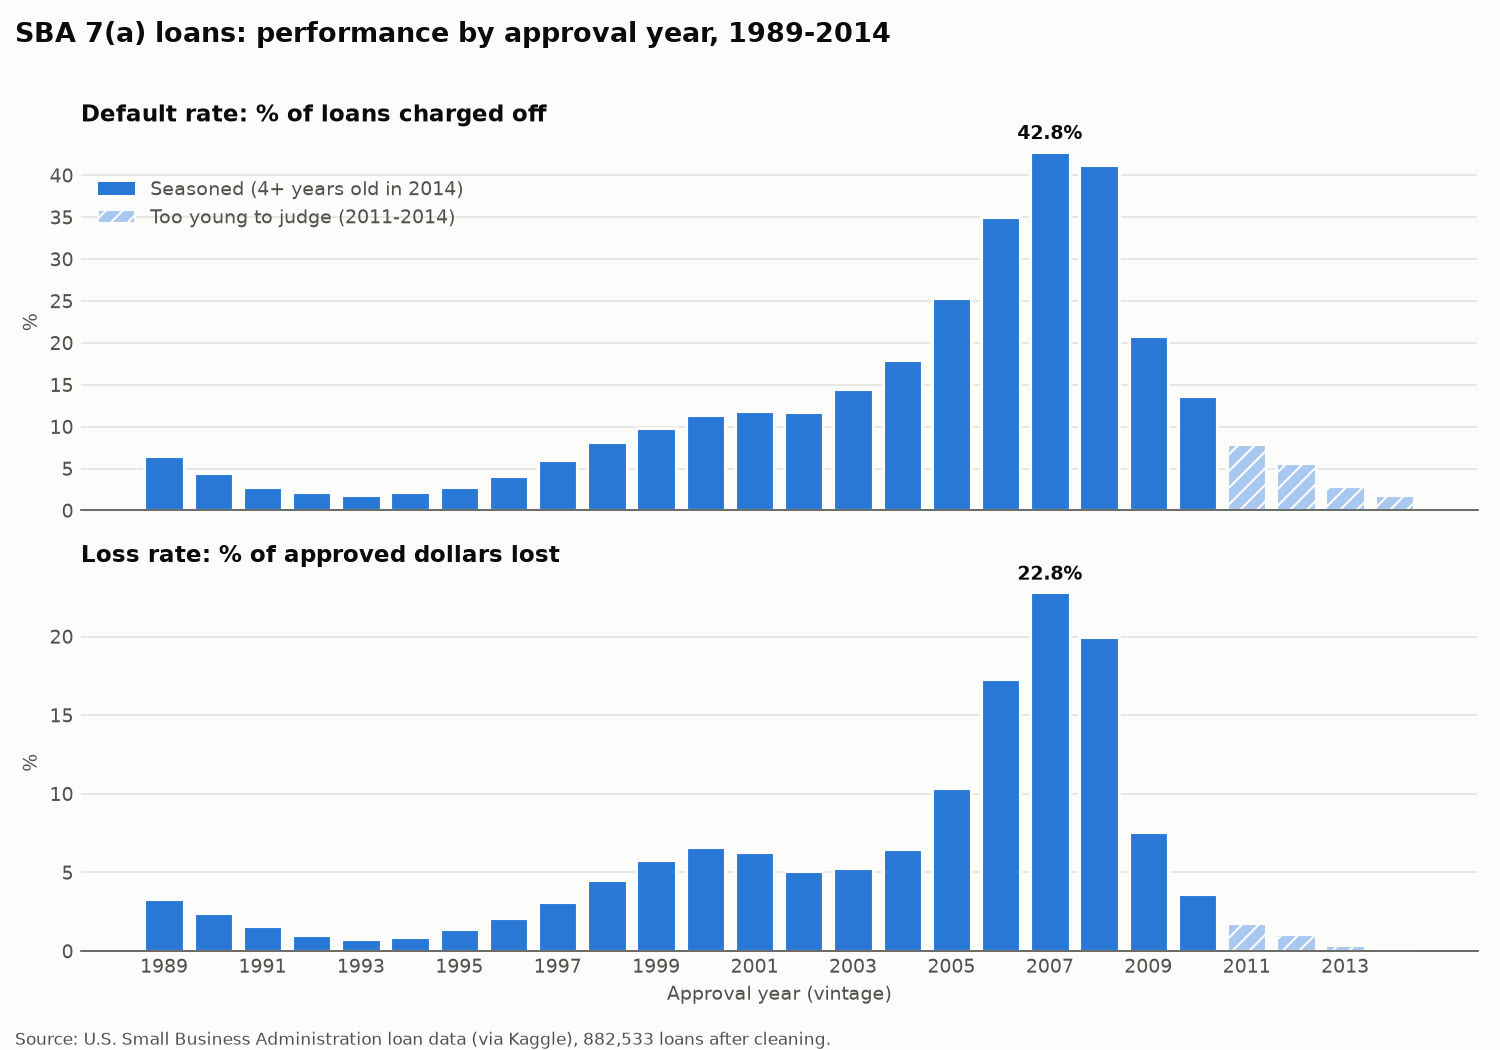
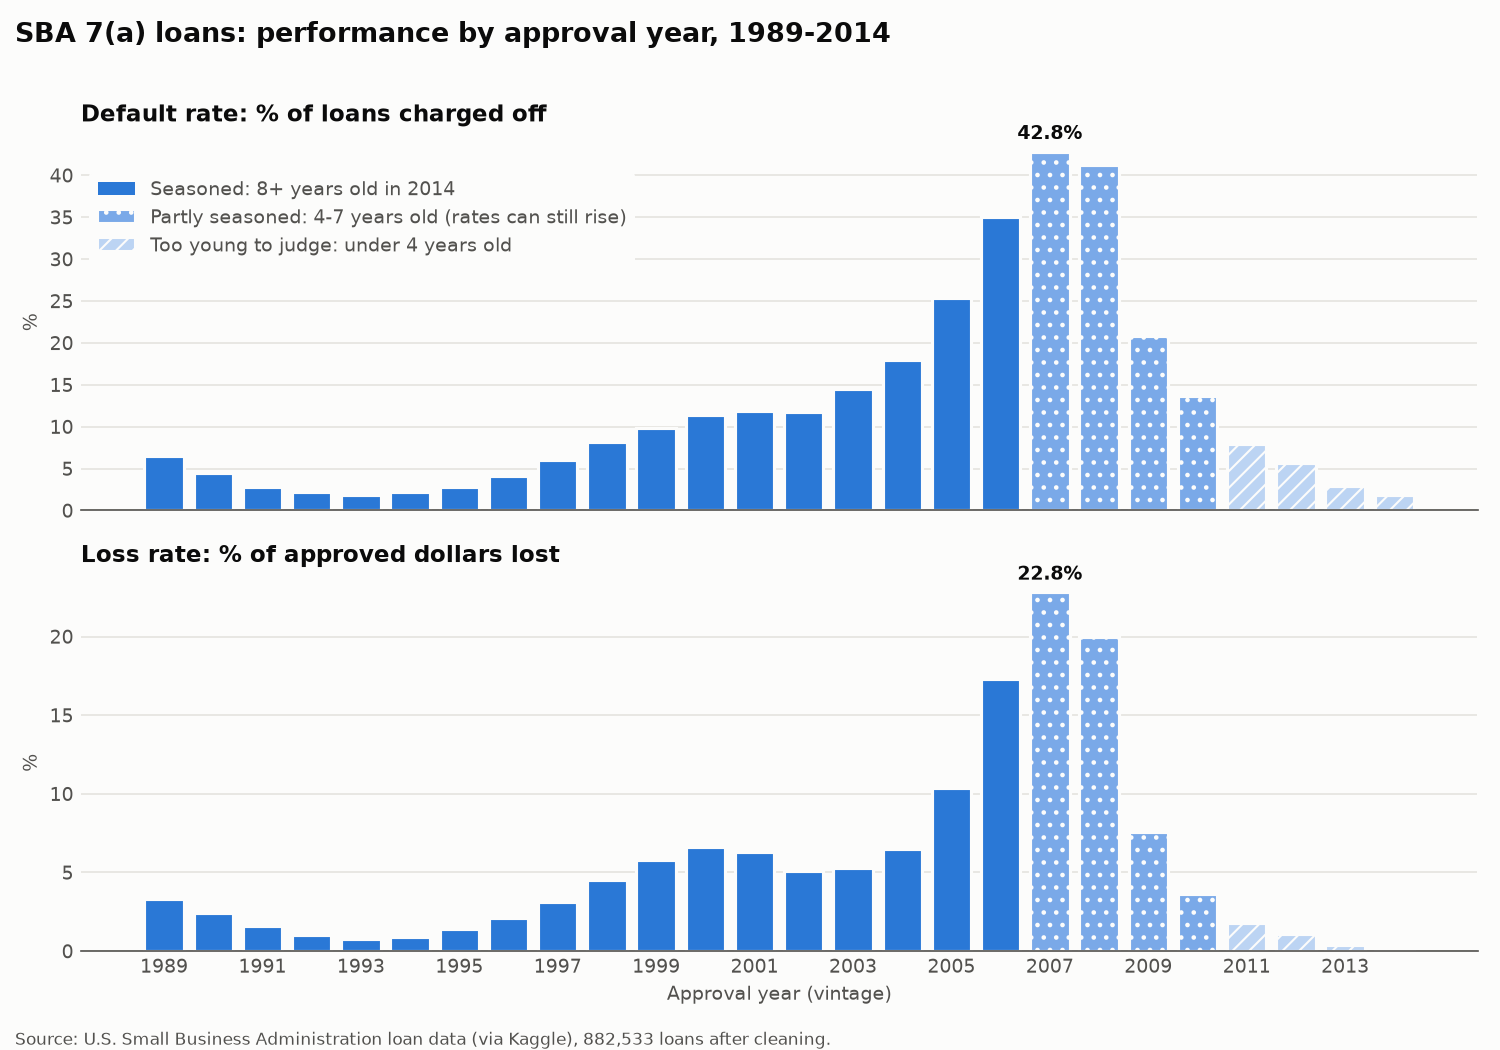
Step 3: vintage analysis

Changed region(s): [[0.6747, 0.1219, 0.828, 0.4876], [0.6747, 0.5486, 0.828, 0.9143], [0.0613, 0.1524, 0.4293, 0.2438]]

diff --git a/scripts/03_vintage_charts.py b/scripts/03_vintage_charts.py
@@ -28,13 +28,16 @@ DATABASE_FILE = PROJECT_FOLDER / "data" / "loans.duckdb"
 OUTPUT_FOLDER = PROJECT_FOLDER / "outputs"
 OUTPUT_FOLDER.mkdir(exist_ok=True)
 
-# The last vintage we treat as "seasoned" (old enough to judge). See Q1 of
-# sql/03_vintage_analysis.sql for why: most defaults happen in the first few years.
-LAST_SEASONED_YEAR = 2010
+# How old a vintage must be before we trust its numbers. See Q1 of
+# sql/03_vintage_analysis.sql: about 87% of defaults happen within 8 years,
+# but only about 1/3 within 4 years.
+LAST_SEASONED_YEAR = 2006          # 8+ years old in 2014
+LAST_PARTLY_SEASONED_YEAR = 2010   # 4-7 years old in 2014
 
 # Chart colours, kept in one place so every chart looks the same
-BLUE = "#2a78d6"           # main colour for the bars
-BLUE_LIGHT = "#a9c8ef"     # lighter blue for the "too young to judge" years
+BLUE = "#2a78d6"           # main colour for the bars (seasoned)
+BLUE_MID = "#7aa9e8"       # medium blue for "partly seasoned" years
+BLUE_LIGHT = "#bcd4f3"     # light blue for "too young to judge" years
 TEXT = "#0b0b0b"           # main text
 TEXT_SOFT = "#52514e"      # axis labels and notes
 GRID = "#e4e3df"           # faint grid lines
@@ -54,6 +57,7 @@ vintages = con.execute(
     SELECT
         approval_year                                               AS vintage,
         CASE WHEN approval_year <= {LAST_SEASONED_YEAR} THEN 'Seasoned'
+             WHEN approval_year <= {LAST_PARTLY_SEASONED_YEAR} THEN 'Partly seasoned'
              ELSE 'Too young to judge' END                          AS seasoning,
         COUNT(*)                                                    AS number_of_loans,
         ROUND(SUM(loan_amount) / 1e6, 0)                            AS approved_millions,
@@ -118,8 +122,15 @@ def label_highest_bar(ax, x_values, y_values, suffix):
 # 3. Chart 1: default rate and loss rate by vintage (two panels, one above
 #    the other, so each measure has its own scale)
 # ---------------------------------------------------------------------------
-bar_colours = [BLUE if s == "Seasoned" else BLUE_LIGHT for s in vintages["seasoning"]]
-bar_hatches = ["" if s == "Seasoned" else "///" for s in vintages["seasoning"]]
+# Each seasoning label gets its own colour and pattern (the pattern helps
+# readers who can't easily tell the blues apart, and when printed in grey)
+style_for = {
+    "Seasoned":           (BLUE, ""),
+    "Partly seasoned":    (BLUE_MID, ".."),
+    "Too young to judge": (BLUE_LIGHT, "///"),
+}
+bar_colours = [style_for[s][0] for s in vintages["seasoning"]]
+bar_hatches = [style_for[s][1] for s in vintages["seasoning"]]
 
 figure, (top, bottom) = plt.subplots(2, 1, figsize=(10, 7), sharex=True)
 figure.patch.set_facecolor(BACKGROUND)
@@ -141,12 +152,16 @@ bottom.set_xticks(vintages["vintage"][::2])        # label every second year
 bottom.set_xlabel("Approval year (vintage)", color=TEXT_SOFT, fontsize=9)
 
 legend_items = [
-    Patch(facecolor=BLUE, label="Seasoned (4+ years old in 2014)"),
+    Patch(facecolor=BLUE, label="Seasoned: 8+ years old in 2014"),
+    Patch(facecolor=BLUE_MID, hatch="..", edgecolor=BACKGROUND,
+          label="Partly seasoned: 4-7 years old (rates can still rise)"),
     Patch(facecolor=BLUE_LIGHT, hatch="///", edgecolor=BACKGROUND,
-          label="Too young to judge (2011-2014)"),
+          label="Too young to judge: under 4 years old"),
 ]
-top.legend(handles=legend_items, loc="upper left", frameon=False, fontsize=9,
-           labelcolor=TEXT_SOFT, bbox_to_anchor=(0, 0.92))
+legend = top.legend(handles=legend_items, loc="upper left", fontsize=9,
+                    labelcolor=TEXT_SOFT, bbox_to_anchor=(0, 0.92),
+                    frameon=True, facecolor=BACKGROUND, edgecolor=BACKGROUND,
+                    framealpha=1)   # solid background so grid lines don't run through the text
 
 figure.suptitle("SBA 7(a) loans: performance by approval year, 1989-2014",
                 x=0.01, ha="left", fontsize=13, color=TEXT, fontweight="bold")

diff --git a/README.md b/README.md
@@ -77,3 +77,32 @@ What the checks found:
 - **Odd but kept (flagged) loans:** 4,698 paid in full with a loss recorded, 792 with a 0-month term, 531 with a loss bigger than the approved amount, 236 charged off with a $0 loss. Together they are under 0.7% of loans; later steps check that they don't change the results.
 - **Recent loans are too young to judge.** Loans approved 2011–2014 show charge-off rates of 1.9%–7.8%, because most had only 1–3 years to fail before the data was collected in 2014. They are labelled as unseasoned in the analysis rather than treated as safe.
 - **First signal of risk timing:** loans approved in 2007 charged off at 42.7%, 3.7 times the 11.4% rate for 2000 loans. Step 3 investigates this.
+
+### Step 3: Vintage analysis (performance by approval year)
+
+![Default rate and loss rate by approval year](outputs/vintage_performance.png)
+
+**Headline: loans approved in 2005–2008 were 21% of the dollars lent but caused 54% of all losses.**
+
+| Era (approval years) | Loans | Approved | Default rate | Loss rate | Dollars lost |
+|---|---:|---:|---:|---:|---:|
+| 1989–1999 | 316,302 | $70.7B | 4.9% | 2.6% | $1.84B |
+| 2000–2004 (before the boom) | 245,171 | $50.3B | 14.1% | 6.0% | $3.00B |
+| **2005–2008 (boom, then crisis)** | **263,821** | **$36.2B** | **35.2%** | **16.9%** | **$6.11B** |
+| 2009–2010 (after the crisis) | 35,931 | $6.9B | 17.5% | 5.6% | $0.38B |
+| 2011–2014 (too young to judge) | 21,308 | $6.0B | 6.6% | 1.5% | $0.09B |
+
+Full table by year: [`outputs/vintage_performance.csv`](outputs/vintage_performance.csv)
+
+Findings:
+1. **Loans need about 8 years before they can be judged.** Among 1989–2005 loans, only 32.5% of charge-offs happened within 4 years of approval, 49.1% within 5 years, and 87.0% within 8 years. Vintages are therefore labelled *seasoned* (8+ years old in 2014), *partly seasoned* (4–7 years: rates are minimums and can still rise) or *too young to judge* (under 4 years).
+2. **The worst vintages were made at the top of the boom.** 2007 loans defaulted at 42.8% and lost 22.8% of approved dollars, against 1.9% and 0.8% for 1993 loans. Because 2007–2008 are only partly seasoned, their true rates are likely even higher.
+3. **Bad loans also got worse.** Loss severity (share of a defaulted loan's amount that was lost) rose from 42–44% for 1992–1994 vintages to 78% for 2007–2008, consistent with falling collateral values in the crisis.
+4. **Defaulted loans were smaller than average.** For 2007, 42.8% of *loans* defaulted, but those loans held only about 29% of the *dollars* (loss rate 22.8% ÷ severity 77.6%). Smaller loans default more often, which Step 4 tests directly.
+5. **Losses arrived about 5 years after the lending peak.** Lending peaked in 2005 (76,958 loans); dollars charged off peaked in 2010 ($2.06B). 2008–2011 together account for $5.94B, about half of all recorded charge-offs.
+
+![Dollars charged off per year](outputs/losses_by_year.png)
+
+Checks and limitations:
+- **Flagged loans don't change the result:** removing all 6,215 flagged loans moves the default rate from 17.07% to 17.02% and the loss rate from 6.71% to 6.59%.
+- **Charge-off dates before 2001 look incomplete.** Only 3,587 charge-offs are dated 1989–2000, although 1990s vintages alone have about 15,500 defaults. Default *rates* (based on loan status) are unaffected; *timing* results (findings 1 and 5) lean on post-2001 records.
